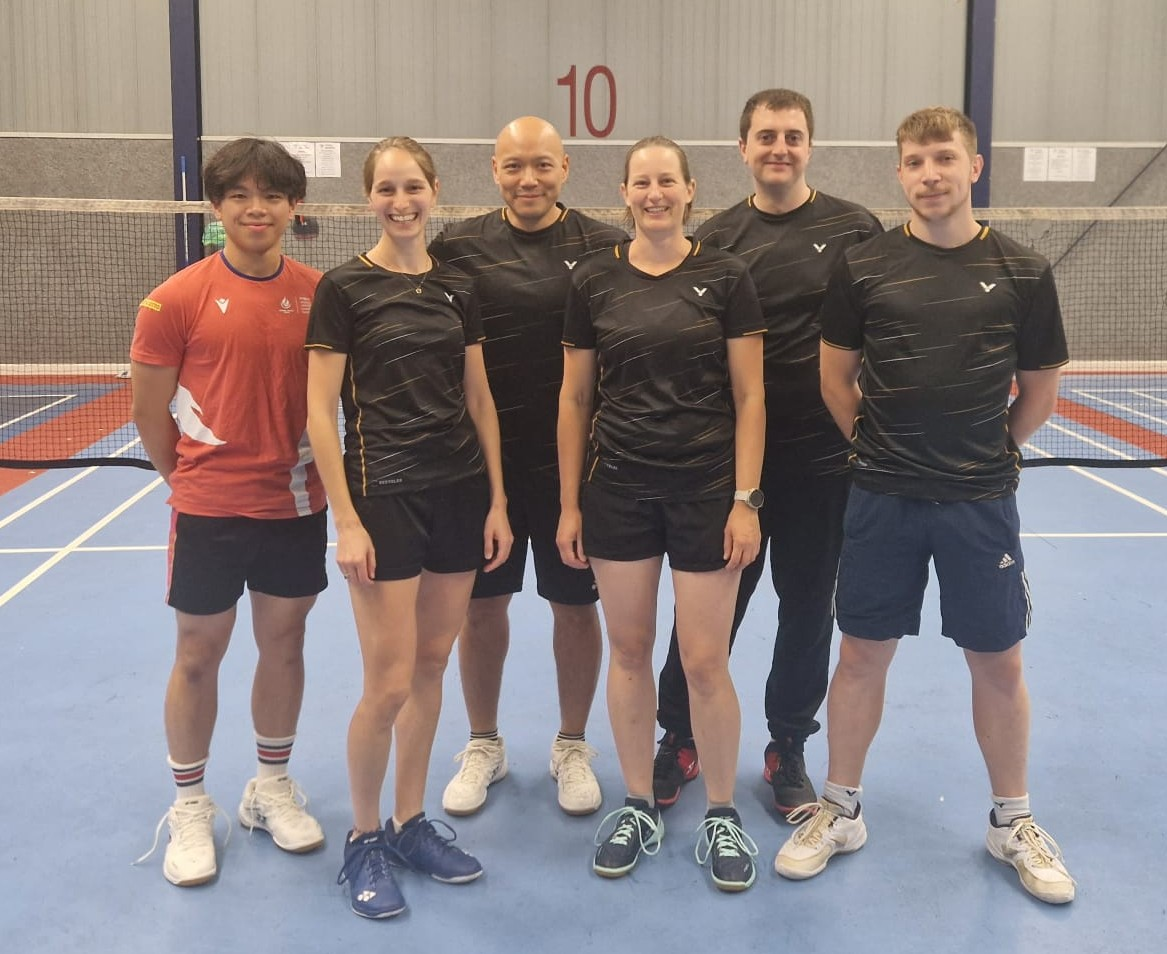
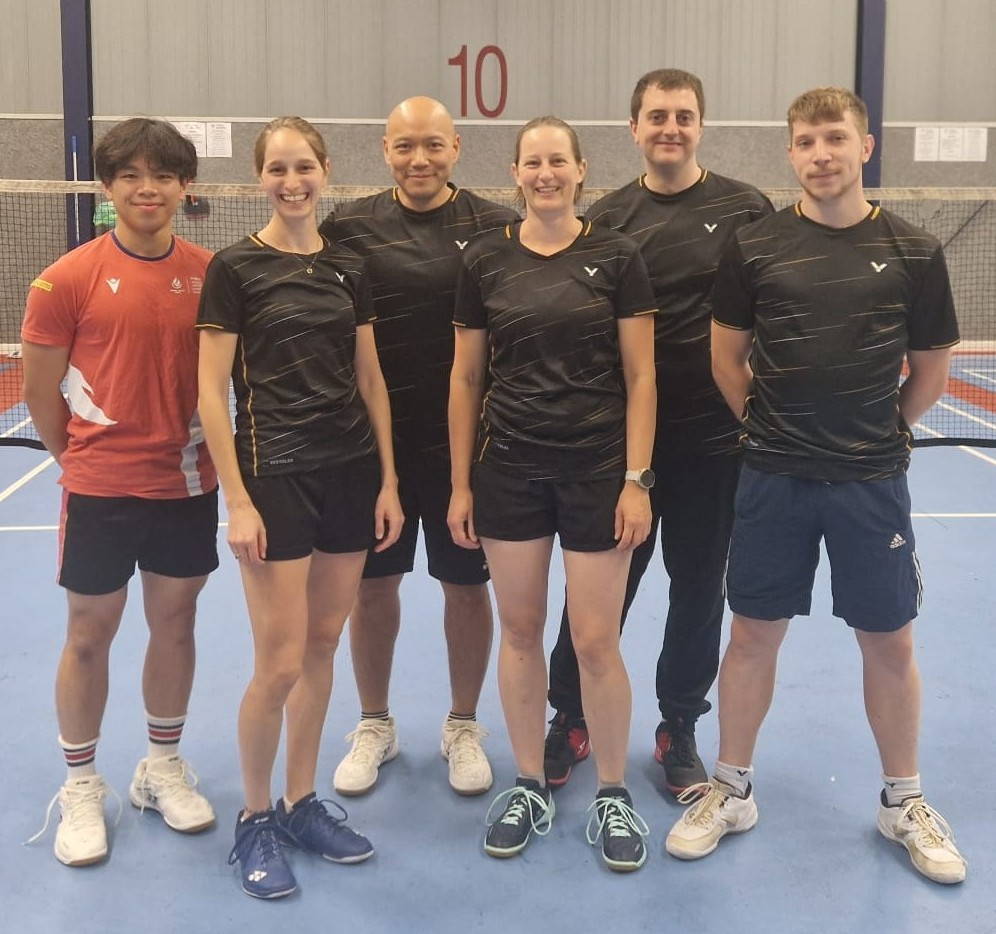
feat: added ai styling to teams

diff --git a/teams.html b/teams.html
@@ -18,6 +18,58 @@
 
     <title>BV Aachen 09</title>
     <link rel="stylesheet" href="styles/layout.css">
+    <style>
+        /* Professional team card animations and styling */
+        .team-card {
+            transition: all 0.3s cubic-bezier(0.4, 0, 0.2, 1);
+        }
+        
+        .team-card:hover {
+            transform: translateY(-8px) scale(1.02);
+        }
+        
+        .team-badge {
+            backdrop-filter: blur(8px);
+            background-color: rgba(255, 255, 255, 0.1);
+            border: 1px solid rgba(255, 255, 255, 0.2);
+        }
+        
+        .gradient-overlay {
+            background: linear-gradient(
+                to top, 
+                rgba(0, 0, 0, 0.9) 0%, 
+                rgba(0, 0, 0, 0.6) 30%, 
+                rgba(0, 0, 0, 0.3) 60%, 
+                transparent 100%
+            );
+        }
+        
+        .image-zoom {
+            transition: transform 0.3s ease-in-out;
+        }
+        
+        .team-card:hover .image-zoom {
+            transform: scale(1.1);
+        }
+        
+        @media (max-width: 768px) {
+            .team-card:hover {
+                transform: translateY(-4px) scale(1.01);
+            }
+        }
+        
+        /* Smooth fade-in animation */
+        .fade-in {
+            opacity: 0;
+            animation: fadeIn 0.6s ease-in-out forwards;
+        }
+        
+        @keyframes fadeIn {
+            to {
+                opacity: 1;
+            }
+        }
+    </style>
 
 </head>
 
@@ -65,31 +117,42 @@
     </nav>
 
     <div class="mx-auto max-w-7xl px-2 sm:px-6 lg:px-8">
-        <div>
-            <p class="mt-10 text-3xl sm:text-4xl text-slate-900 font-extrabold tracking-tight dark:text-slate-50 ">
+        <div class="text-center py-16">
+            <h1 class="text-4xl sm:text-5xl lg:text-6xl font-extrabold text-slate-900 dark:text-slate-50 mb-6">
                 <span data-lang="en" class="hidden">Our Teams</span>
                 <span data-lang="de">Unsere Teams</span>
-            </p>
-            <p class="mt-6 max-w-3xl mx-auto text-lg dark:text-blue-100">
-                <span data-lang="en" class="hidden">In the 2024/2025 season, BV Aachen will participate with five senior teams and one youth team in the official league competition of the BLV-NRW. All levels of play are represented, from district class to league. </span>
-                <span data-lang="de">In der Saison 2024/2025 nimmt der BV Aachen mit fünf Seniorenmannschaften und einer Jugendmannschaft am offiziellen Ligabetrieb des BLV-NRW teil. Von der Bezirksklasse bis zur Verbandsliga sind alle Spielstärken vertreten. </span>
-            </p>
-            <p class="mt-6 space-y-6 text-lg">
-                <span data-lang="en" class="hidden">The following teams are playing in the current season:</span>
-                <span data-lang="de">In der aktuellen Saison spielen folgende Mannschaften:</span>
-            </p>
+            </h1>
+            <div class="max-w-4xl mx-auto">
+                <p class="text-xl leading-relaxed text-slate-600 dark:text-slate-300 mb-8">
+                    <span data-lang="en" class="hidden">In the 2025/2026 season, BV Aachen will participate with five senior teams and one youth team in the official league competition of the BLV-NRW. All levels of play are represented, from district class to league.</span>
+                    <span data-lang="de">In der Saison 2025/2026 nimmt der BV Aachen mit fünf Seniorenmannschaften und einer Jugendmannschaft am offiziellen Ligabetrieb des BLV-NRW teil. Von der Bezirksklasse bis zur Verbandsliga sind alle Spielstärken vertreten.</span>
+                </p>
+                <p class="text-lg font-medium text-slate-700 dark:text-slate-200">
+                    <span data-lang="en" class="hidden">The following teams are playing in the current season:</span>
+                    <span data-lang="de">In der aktuellen Saison spielen folgende Mannschaften:</span>
+                </p>
+            </div>
+        </div>
 
-            <div class="mt-10 grid grid-cols-1 gap-4 lg:gap-8 sm:grid-cols-1 md:grid-cols-2 lg:grid-cols-2 overflow-hidden content-center items-center">
+        <div class="grid grid-cols-1 gap-8 lg:gap-10 sm:grid-cols-1 md:grid-cols-2 lg:grid-cols-2">
                 <!-- 1. MANNSCHAFT-->
-                <div class="relative">
-                    <img src="images/teams/2025/1. Mannschaft_2025.jpg" />
-                    <div class="absolute bottom-0 left-0 right-0 px-4 py-2 bg-gray-800 opacity-70">
-                        <h3 class="text-xl text-white font-bold">
-                            <span data-lang="en" class="hidden">1st Team</span>
-                            <span data-lang="de">1. Mannschaft</span>
-                            <a href="https://dbv.turnier.de/sport/league/team?id=925D6245-1FA1-496D-9810-1439487E5801&team=1224" class="font-medium text-white-600 dark:text-White-600 underline">Verbandsliga</a>
-                        </h3>
-                        <p class="mt-2 text-sm text-gray-300">
+                <div class="team-card group relative overflow-hidden rounded-xl shadow-lg hover:shadow-2xl bg-white dark:bg-gray-800 fade-in">
+                    <div class="aspect-w-16 aspect-h-12 overflow-hidden">
+                        <img src="images/teams/2025/1. Mannschaft_2025.jpg" class="image-zoom w-full h-80 object-cover" />
+                    </div>
+                    <div class="gradient-overlay absolute inset-0"></div>
+                    <div class="absolute bottom-0 left-0 right-0 p-6">
+                        <div class="mb-3 flex items-center gap-3">
+                            <h3 class="text-2xl text-white font-bold">
+                                <span data-lang="en" class="hidden">1st Team</span>
+                                <span data-lang="de">1. Mannschaft</span>
+                            </h3>
+                            <a href="https://dbv.turnier.de/sport/league/team?id=925D6245-1FA1-496D-9810-1439487E5801&team=1224" 
+                               class="team-badge inline-flex items-center px-3 py-1 rounded-full text-xs font-semibold bg-blue-600 text-white hover:bg-blue-700 transition-colors duration-200">
+                                Verbandsliga
+                            </a>
+                        </div>
+                        <p class="text-sm text-gray-200 leading-relaxed">
                             <span data-lang="en" class="hidden">
                                 (from left to right) Mehak Deep Singh, Artur Mühlbeier, Jens Igel, Ansgar Kirste, David Brock, Hannah Schröder
                             </span>
@@ -101,15 +164,23 @@
                 </div>
 
                 <!-- 2. MANNSCHAFT-->
-                <div class="relative">
-                    <img src="images/teams/2025/2. Mannschaft_2025.jpg" />
-                    <div class="absolute bottom-0 left-0 right-0 px-4 py-2 bg-gray-800 opacity-70">
-                        <h3 class="text-xl text-white font-bold">
-                            <span data-lang="en" class="hidden">2nd Team</span>
-                            <span data-lang="de">2. Mannschaft</span>
-                            <a href="https://dbv.turnier.de/sport/league/team?id=925D6245-1FA1-496D-9810-1439487E5801&team=1225" class="font-medium text-white-600 dark:text-White-600 underline">Landesliga</a>
-                        </h3>
-                        <p class="mt-2 text-sm text-gray-300">
+                <div class="team-card group relative overflow-hidden rounded-xl shadow-lg hover:shadow-2xl bg-white dark:bg-gray-800 fade-in">
+                    <div class="aspect-w-16 aspect-h-12 overflow-hidden">
+                        <img src="images/teams/2025/2. Mannschaft_2025.jpg" class="image-zoom w-full h-80 object-cover" />
+                    </div>
+                    <div class="gradient-overlay absolute inset-0"></div>
+                    <div class="absolute bottom-0 left-0 right-0 p-6">
+                        <div class="mb-3 flex items-center gap-3">
+                            <h3 class="text-2xl text-white font-bold">
+                                <span data-lang="en" class="hidden">2nd Team</span>
+                                <span data-lang="de">2. Mannschaft</span>
+                            </h3>
+                            <a href="https://dbv.turnier.de/sport/league/team?id=925D6245-1FA1-496D-9810-1439487E5801&team=1225" 
+                               class="team-badge inline-flex items-center px-3 py-1 rounded-full text-xs font-semibold bg-green-600 text-white hover:bg-green-700 transition-colors duration-200">
+                                Landesliga
+                            </a>
+                        </div>
+                        <p class="text-sm text-gray-200 leading-relaxed">
                             <span data-lang="en" class="hidden">
                                 (from left to right) Sam Carl Benz, Eva Wille, Ramzi Abdul Rahim, Johanna Holsten, Jochen Abele, Marko Goldschmidt
                             </span>
@@ -121,16 +192,23 @@
                 </div>
 
                 <!-- 3. MANNSCHAFT-->
-                <div class="relative">
-                    <img src="images/teams/2025/3.Mannschaft_2025.jpg" />
-
-                    <div class="absolute bottom-0 left-0 right-0 px-4 py-2 bg-gray-800 opacity-70">
-                        <h3 class="text-xl text-white font-bold">
-                            <span data-lang="en" class="hidden">3rd Team</span>
-                            <span data-lang="de">3. Mannschaft</span>
-                            <a href="https://dbv.turnier.de/sport/league/team?id=925D6245-1FA1-496D-9810-1439487E5801&team=1226" class="font-medium text-white-600 dark:text-White-600 underline">Bezirksliga</a>
-                        </h3>
-                        <p class="mt-2 text-sm text-gray-300">
+                <div class="team-card group relative overflow-hidden rounded-xl shadow-lg hover:shadow-2xl bg-white dark:bg-gray-800 fade-in">
+                    <div class="aspect-w-16 aspect-h-12 overflow-hidden">
+                        <img src="images/teams/2025/3.Mannschaft_2025.jpg" class="image-zoom w-full h-80 object-cover" />
+                    </div>
+                    <div class="gradient-overlay absolute inset-0"></div>
+                    <div class="absolute bottom-0 left-0 right-0 p-6">
+                        <div class="mb-3 flex items-center gap-3">
+                            <h3 class="text-2xl text-white font-bold">
+                                <span data-lang="en" class="hidden">3rd Team</span>
+                                <span data-lang="de">3. Mannschaft</span>
+                            </h3>
+                            <a href="https://dbv.turnier.de/sport/league/team?id=925D6245-1FA1-496D-9810-1439487E5801&team=1226" 
+                               class="team-badge inline-flex items-center px-3 py-1 rounded-full text-xs font-semibold bg-purple-600 text-white hover:bg-purple-700 transition-colors duration-200">
+                                Bezirksliga
+                            </a>
+                        </div>
+                        <p class="text-sm text-gray-200 leading-relaxed">
                             <span data-lang="en" class="hidden">
                                 (from left to right) Nicole Koczorek, Viet-Sam Do, Sara Dammers, Christos Coucas, Kim-Loan Do, David Franke, Yannick Ernesti, Valentin Himmel
                             </span>
@@ -142,17 +220,23 @@
                 </div>
 
                 <!-- 4. MANNSCHAFT-->
-                <div class="relative">
-                    <img src="images/teams/2025/4.Mannschaft_2025.jpg" />
-                    <div class="absolute bottom-0 left-0 right-0 px-4 py-2 bg-gray-800 opacity-70">
-                        <h3 class="text-xl text-white font-bold">
-                            <span data-lang="en" class="hidden">4th Team</span>
-                            <span data-lang="de">
-                                4. Mannschaft
-                            </span>
-                            <a href="https://dbv.turnier.de/sport/league/team?id=925D6245-1FA1-496D-9810-1439487E5801&team=1227" class="font-medium text-white-600 dark:text-White-600 underline">Bezirksliga</a>
-                        </h3>
-                        <p class="mt-2 text-sm text-gray-300">
+                <div class="team-card group relative overflow-hidden rounded-xl shadow-lg hover:shadow-2xl bg-white dark:bg-gray-800 fade-in">
+                    <div class="aspect-w-16 aspect-h-12 overflow-hidden">
+                        <img src="images/teams/2025/4.Mannschaft_2025.jpg" class="image-zoom w-full h-80 object-cover" />
+                    </div>
+                    <div class="gradient-overlay absolute inset-0"></div>
+                    <div class="absolute bottom-0 left-0 right-0 p-6">
+                        <div class="mb-3 flex items-center gap-3">
+                            <h3 class="text-2xl text-white font-bold">
+                                <span data-lang="en" class="hidden">4th Team</span>
+                                <span data-lang="de">4. Mannschaft</span>
+                            </h3>
+                            <a href="https://dbv.turnier.de/sport/league/team?id=925D6245-1FA1-496D-9810-1439487E5801&team=1227" 
+                               class="team-badge inline-flex items-center px-3 py-1 rounded-full text-xs font-semibold bg-purple-600 text-white hover:bg-purple-700 transition-colors duration-200">
+                                Bezirksliga
+                            </a>
+                        </div>
+                        <p class="text-sm text-gray-200 leading-relaxed">
                             <span data-lang="en" class="hidden">
                                 (from left to right) Finn Hoven, Manfred Faldum, Sven Pfennings, Alexander Heinrichs, Jong Yun Kim, Julia Bremer, Chaitanya Gindi, Luke Hassel
                             </span>
@@ -164,15 +248,23 @@
                 </div>
 
                 <!-- 5. MANNSCHAFT-->
-                <div class="relative">
-                    <img src="images/teams/2025/5. Mannschaft_2025.jpg" />
-                    <div class="absolute bottom-0 left-0 right-0 px-4 py-2 bg-gray-800 opacity-70">
-                        <h3 class="text-xl text-white font-bold">
-                            <span data-lang="en" class="hidden">5th Team</span>
-                            <span data-lang="de">5. Mannschaft</span>
-                            <a href="https://dbv.turnier.de/sport/league/team?id=925D6245-1FA1-496D-9810-1439487E5801&team=1228" class="font-medium text-white-600 dark:text-White-600 underline">Bezirksklasse</a>
-                        </h3>
-                        <p class="mt-2 text-sm text-gray-300">
+                <div class="team-card group relative overflow-hidden rounded-xl shadow-lg hover:shadow-2xl bg-white dark:bg-gray-800 fade-in">
+                    <div class="aspect-w-16 aspect-h-12 overflow-hidden">
+                        <img src="images/teams/2025/5. Mannschaft_2025.jpg" class="image-zoom w-full h-80 object-cover" />
+                    </div>
+                    <div class="gradient-overlay absolute inset-0"></div>
+                    <div class="absolute bottom-0 left-0 right-0 p-6">
+                        <div class="mb-3 flex items-center gap-3">
+                            <h3 class="text-2xl text-white font-bold">
+                                <span data-lang="en" class="hidden">5th Team</span>
+                                <span data-lang="de">5. Mannschaft</span>
+                            </h3>
+                            <a href="https://dbv.turnier.de/sport/league/team?id=925D6245-1FA1-496D-9810-1439487E5801&team=1228" 
+                               class="team-badge inline-flex items-center px-3 py-1 rounded-full text-xs font-semibold bg-orange-600 text-white hover:bg-orange-700 transition-colors duration-200">
+                                Bezirksklasse
+                            </a>
+                        </div>
+                        <p class="text-sm text-gray-200 leading-relaxed">
                             <span data-lang="en" class="hidden">
                                 (from left to right) Friedrich Grommes, Nikjas Hartmann, Judith Beißel, Elisabeth Nacken, Ma Haotian, Kahao Li 
                             </span>
@@ -184,24 +276,29 @@
                 </div>
 
                 <!-- U19 MANNSCHAFT-->
-                <div class="relative">
-                    <img src="images/teams/JugendMannschaft_2022.jpeg" />
-
-                    <!-- TODO: remove temporary warning and replace images and description -->
-                    <div class="absolute top-0 left-0 right-0 px-4 py-2">
-                        <h3 class="text-3xl text-red-600 dark:text-red-600 font-bold">
-                            <span data-lang="en" class="hidden">Image from season 2022</span>
-                            <span data-lang="de">Bild aus Saison 2022</span>
-                        </h3>
+                <div class="team-card group relative overflow-hidden rounded-xl shadow-lg hover:shadow-2xl bg-white dark:bg-gray-800 fade-in">
+                    <div class="aspect-w-16 aspect-h-12 overflow-hidden">
+                        <img src="images/teams/JugendMannschaft_2022.jpeg" class="image-zoom w-full h-80 object-cover" />
                     </div>
-
-                    <div class="absolute bottom-0 left-0 right-0 px-4 py-2 bg-gray-800 opacity-70">
-                        <h3 class="text-xl text-white font-bold">
-                            <span data-lang="en" class="hidden">Youth Team</span>
-                            <span data-lang="de">Jugendmannschaft</span>
-                            <a href="https://dbv.turnier.de/sport/league/team?id=925D6245-1FA1-496D-9810-1439487E5801&team=1229" class="font-medium text-white-600 dark:text-White-600 underline">U19</a>
-                        </h3>
-                        <p class="mt-2 text-sm text-gray-300">
+                    <div class="gradient-overlay absolute inset-0"></div>
+                    <div class="absolute top-4 right-4">
+                        <span class="team-badge inline-flex items-center px-3 py-1 rounded-full text-xs font-semibold bg-yellow-600 text-white">
+                            <span data-lang="en" class="hidden">Archive Photo 2022</span>
+                            <span data-lang="de">Archivbild 2022</span>
+                        </span>
+                    </div>
+                    <div class="absolute bottom-0 left-0 right-0 p-6">
+                        <div class="mb-3 flex items-center gap-3">
+                            <h3 class="text-2xl text-white font-bold">
+                                <span data-lang="en" class="hidden">Youth Team</span>
+                                <span data-lang="de">Jugendmannschaft</span>
+                            </h3>
+                            <a href="https://dbv.turnier.de/sport/league/team?id=925D6245-1FA1-496D-9810-1439487E5801&team=1229" 
+                               class="team-badge inline-flex items-center px-3 py-1 rounded-full text-xs font-semibold bg-indigo-600 text-white hover:bg-indigo-700 transition-colors duration-200">
+                                U19
+                            </a>
+                        </div>
+                        <p class="text-sm text-gray-200 leading-relaxed">
                             <span data-lang="en" class="hidden">
                                 (from left to right) Friedrich Grommes, Viet-Sam Do, Justus Meentz, Sophie Schalla
                             </span>
@@ -213,28 +310,34 @@
                 </div>
 
                 <!-- SCHÜLERMANNSCHAFT -->
-                <div class="relative">
-                    <img src="images/bild1.jpg" />
-
-                    <!-- TODO: remove temporary warning and replace images and description -->
-                    <div class="absolute top-0 left-0 right-0 px-4 py-2">
-                        <h3 class="text-3xl text-red-600 dark:text-red-600 font-bold">
-                            <span data-lang="en" class="hidden">Image missing</span>
-                            <span data-lang="de">Bild fehlt</span>
-                        </h3>
+                <div class="team-card group relative overflow-hidden rounded-xl shadow-lg hover:shadow-2xl bg-white dark:bg-gray-800 fade-in">
+                    <div class="aspect-w-16 aspect-h-12 overflow-hidden">
+                        <img src="images/bild1.jpg" class="image-zoom w-full h-80 object-cover" />
                     </div>
-
-                    <div class="absolute bottom-0 left-0 right-0 px-4 py-2 bg-gray-800 opacity-70">
-                        <h3 class="text-xl text-white font-bold">
-                            <span data-lang="en" class="hidden">Youth Team</span>
-                            <span data-lang="de">Jugendmannschaft</span> Jugendmannschaft <a href="https://dbv.turnier.de/sport/league/team?id=925D6245-1FA1-496D-9810-1439487E5801&team=1230" class="font-medium text-white-600 dark:text-White-600 underline">U15</a>
-                        </h3>
-                        <p class="mt-2 text-sm text-gray-300">
+                    <div class="gradient-overlay absolute inset-0"></div>
+                    <div class="absolute top-4 right-4">
+                        <span class="team-badge inline-flex items-center px-3 py-1 rounded-full text-xs font-semibold bg-amber-600 text-white">
+                            <span data-lang="en" class="hidden">Photo coming soon</span>
+                            <span data-lang="de">Foto folgt</span>
+                        </span>
+                    </div>
+                    <div class="absolute bottom-0 left-0 right-0 p-6">
+                        <div class="mb-3 flex items-center gap-3">
+                            <h3 class="text-2xl text-white font-bold">
+                                <span data-lang="en" class="hidden">Youth Team</span>
+                                <span data-lang="de">Jugendmannschaft</span>
+                            </h3>
+                            <a href="https://dbv.turnier.de/sport/league/team?id=925D6245-1FA1-496D-9810-1439487E5801&team=1230" 
+                               class="team-badge inline-flex items-center px-3 py-1 rounded-full text-xs font-semibold bg-cyan-600 text-white hover:bg-cyan-700 transition-colors duration-200">
+                                U15
+                            </a>
+                        </div>
+                        <p class="text-sm text-gray-200 leading-relaxed">
                             <span data-lang="en" class="hidden">
-                                (from left to right) TODO
+                                Team roster will be updated soon
                             </span>
                             <span data-lang="de">
-                                (v.l.n.r.) TODO
+                                Mannschaftsaufstellung wird bald aktualisiert
                             </span>
                         </p>
                     </div>
@@ -242,11 +345,15 @@
 
             </div>
 
-            <div class="mt-20 text-center">
-                <h2 class="text-xl font-extrabold dark:text-white mt-10">
+            <div class="mt-20 text-center bg-gradient-to-r from-blue-50 to-indigo-50 dark:from-gray-800 dark:to-gray-700 rounded-2xl p-12 shadow-lg">
+                <h2 class="text-3xl font-bold text-slate-900 dark:text-white mb-4">
                     <span data-lang="en" class="hidden">We are looking for reinforcements for our teams</span>
                     <span data-lang="de">Wir suchen Verstärkung für unsere Mannschaften</span>
                 </h2>
+                <p class="text-lg text-slate-600 dark:text-slate-300 max-w-2xl mx-auto">
+                    <span data-lang="en" class="hidden">Join our badminton family and compete at your level! Contact us to learn more about opportunities in our teams.</span>
+                    <span data-lang="de">Werde Teil unserer Badminton-Familie und spiele auf deinem Niveau! Kontaktiere uns, um mehr über die Möglichkeiten in unseren Teams zu erfahren.</span>
+                </p>
             </div>
         </div>
         <br>
